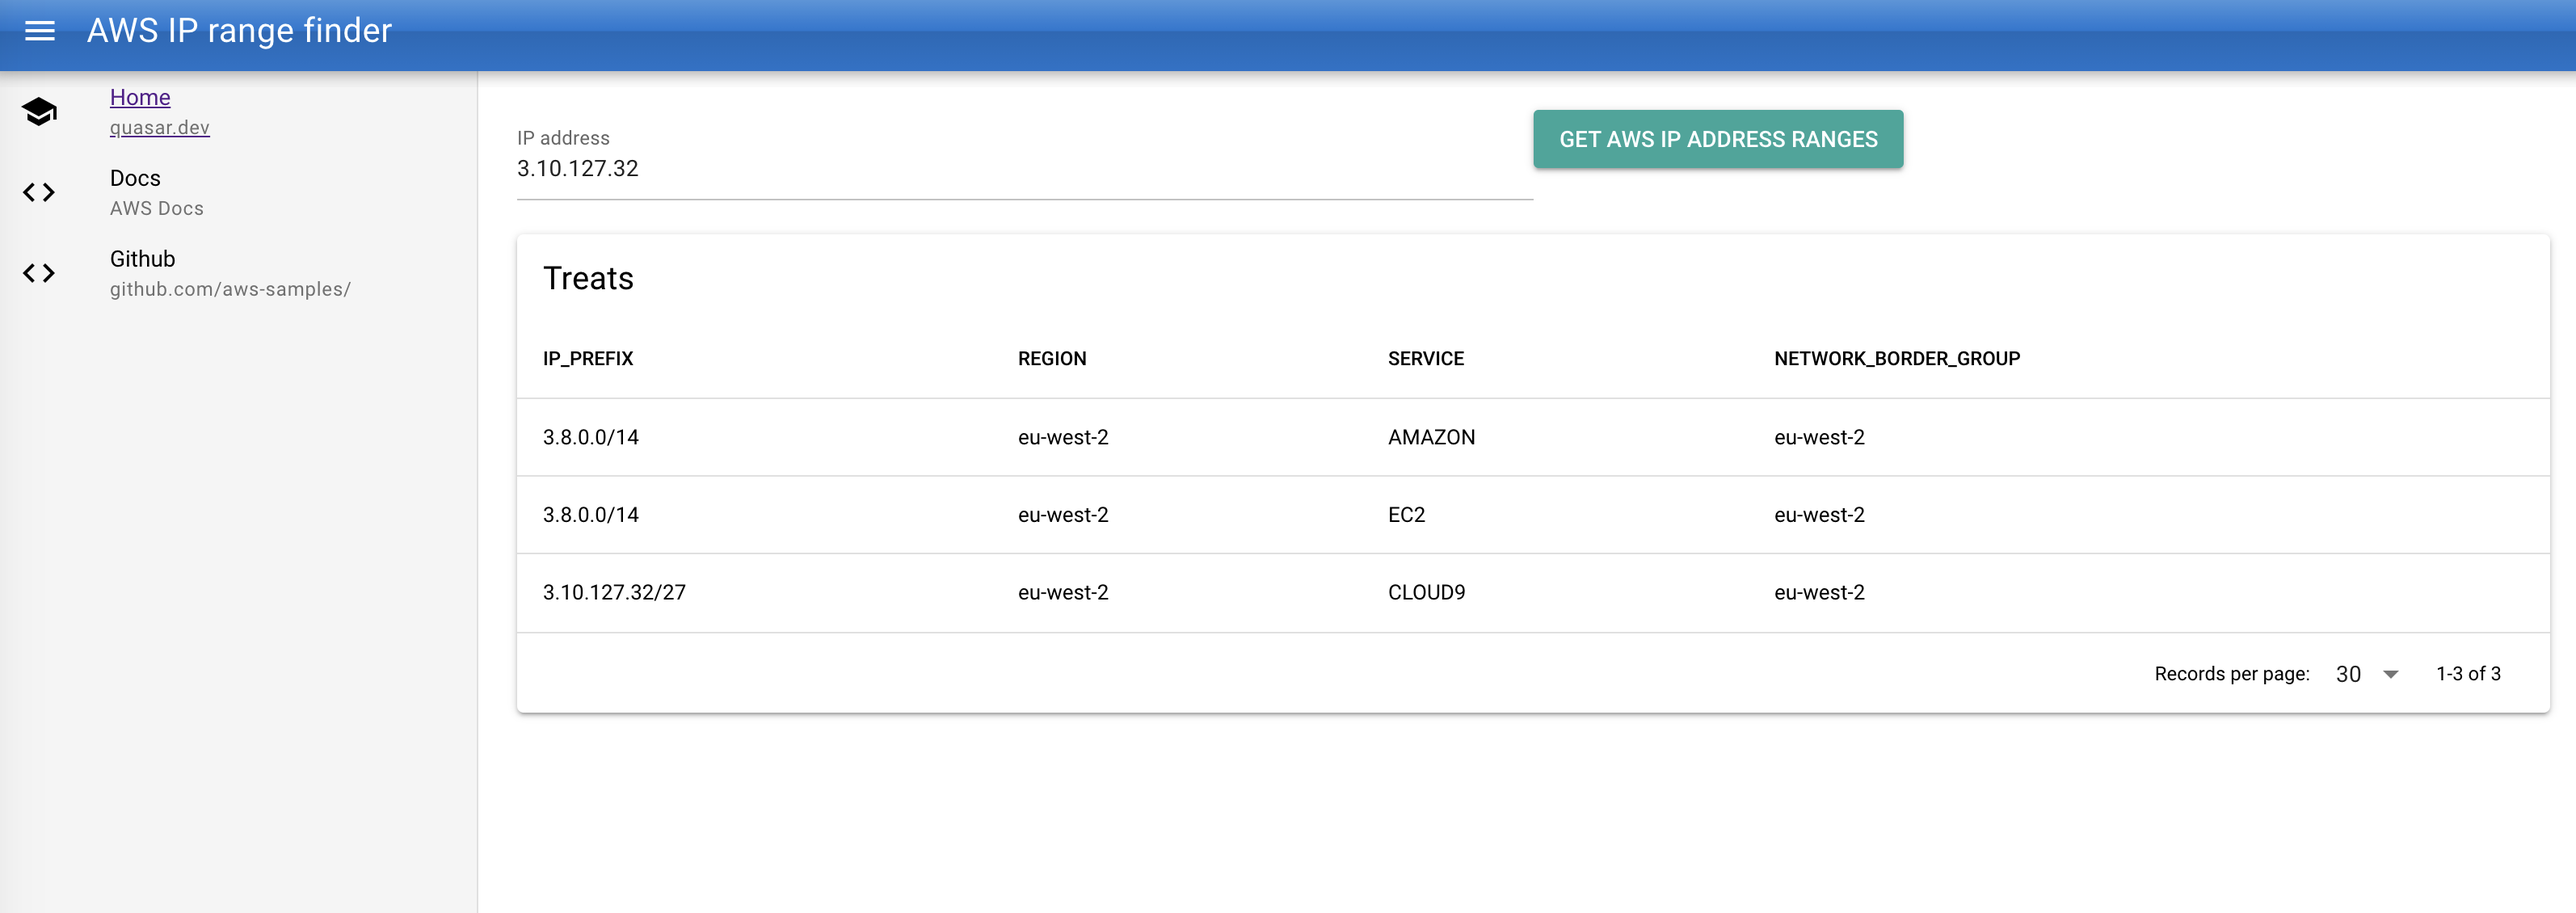
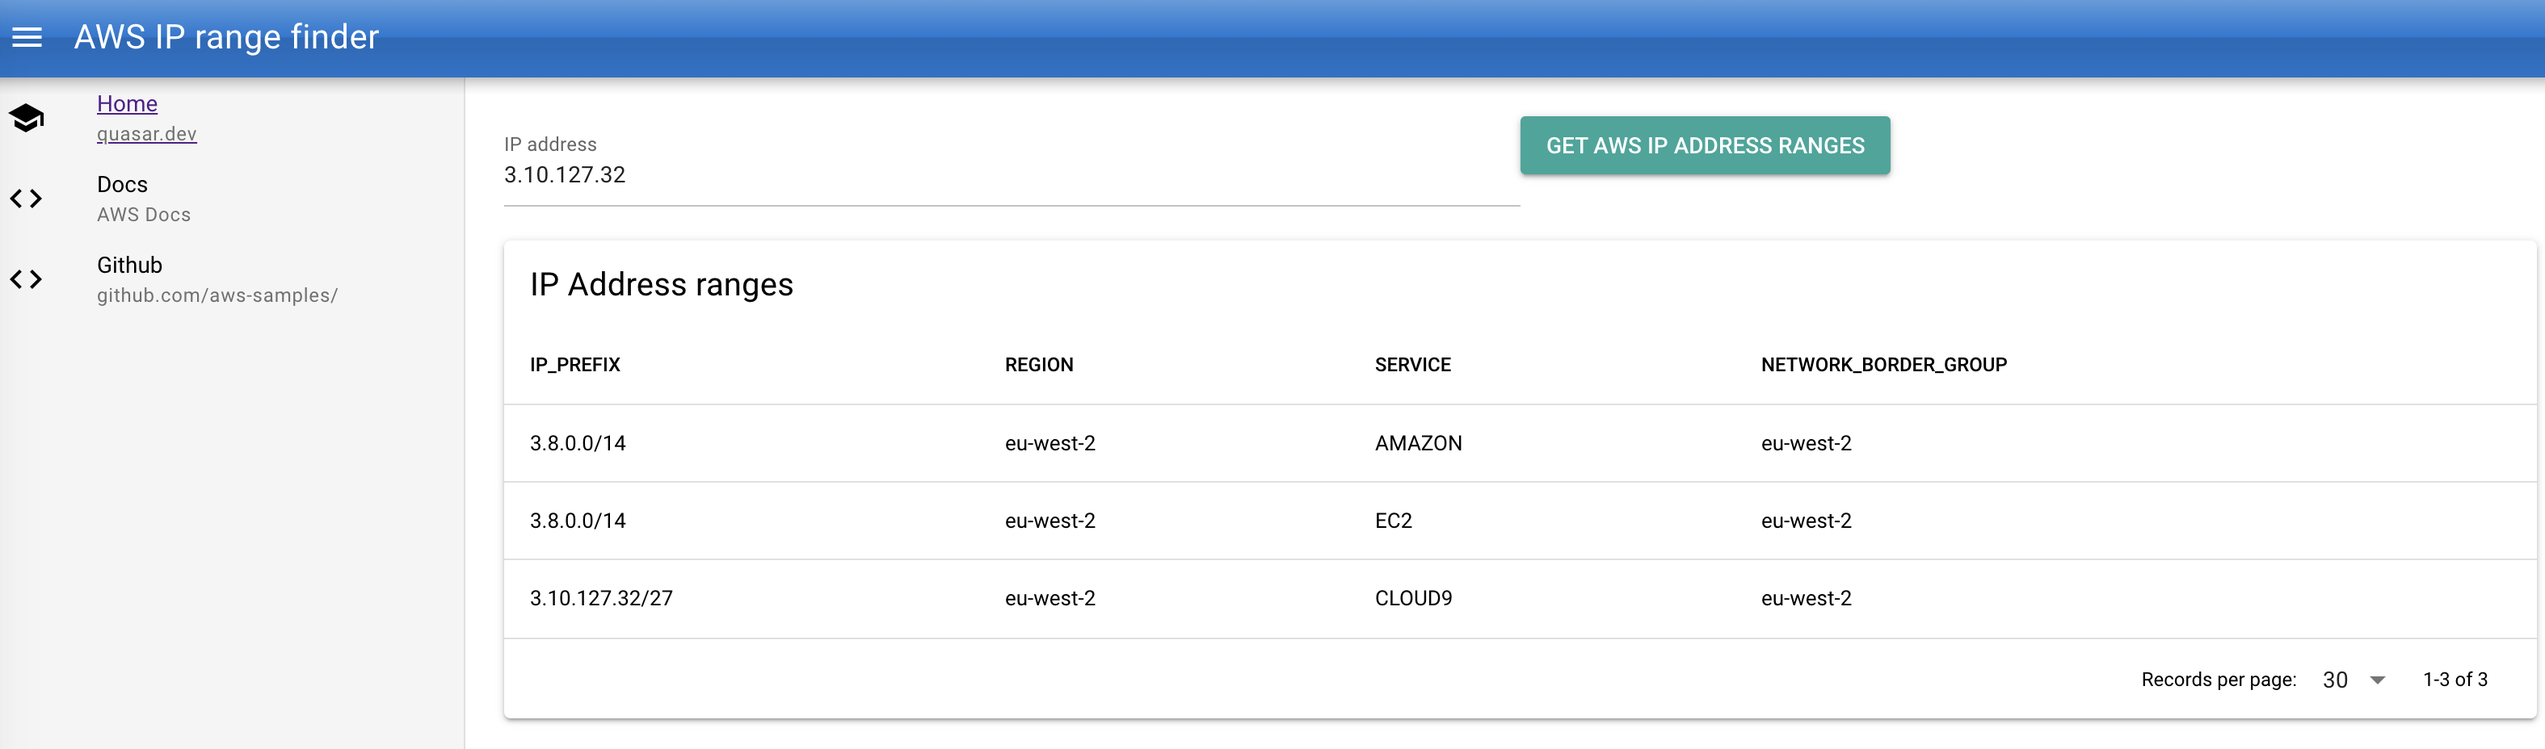
fixed header

diff --git a/src/views/Home.vue b/src/views/Home.vue
@@ -8,7 +8,7 @@
   <div class="row">
     <div class="col">
       <q-table
-      title="Treats"
+      title="IP Address ranges"
       :data="result"
       row-key="name"
       :pagination.sync="pagination"

diff --git a/README.md b/README.md
@@ -1,4 +1,4 @@
-# iprange
+# AWS IP address range finder
 
 Helps you find the AWS IP address range. You can find detailed docs at https://docs.aws.amazon.com/general/latest/gr/aws-ip-ranges.html
 
